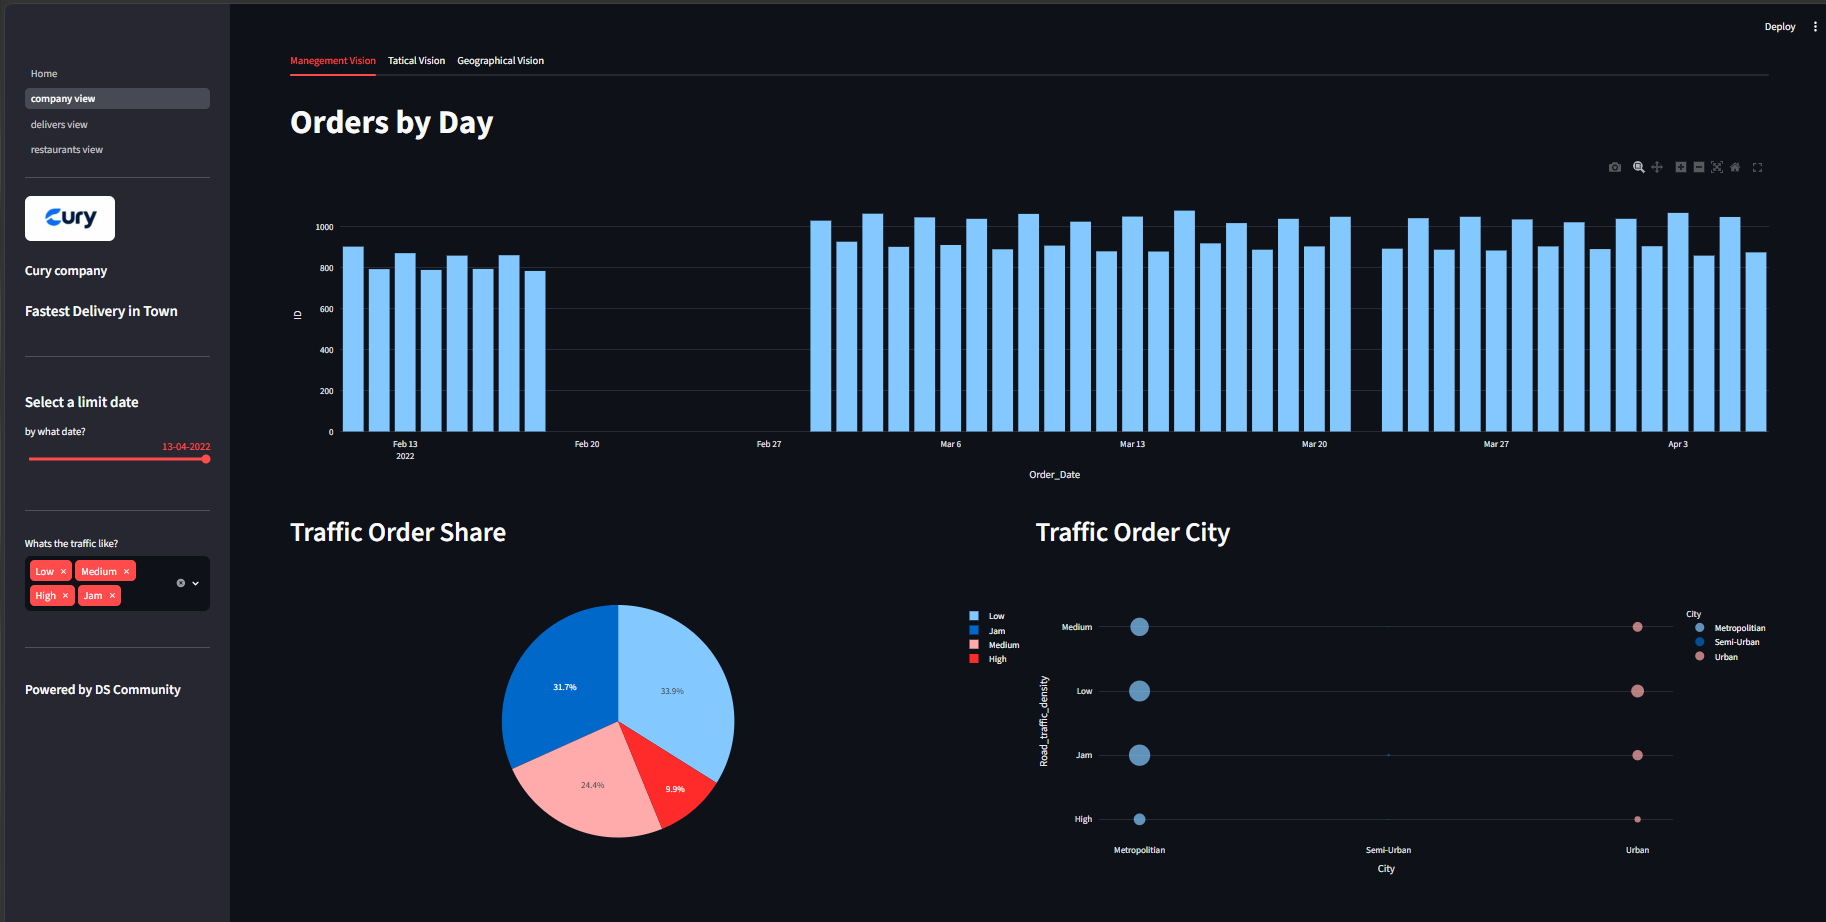
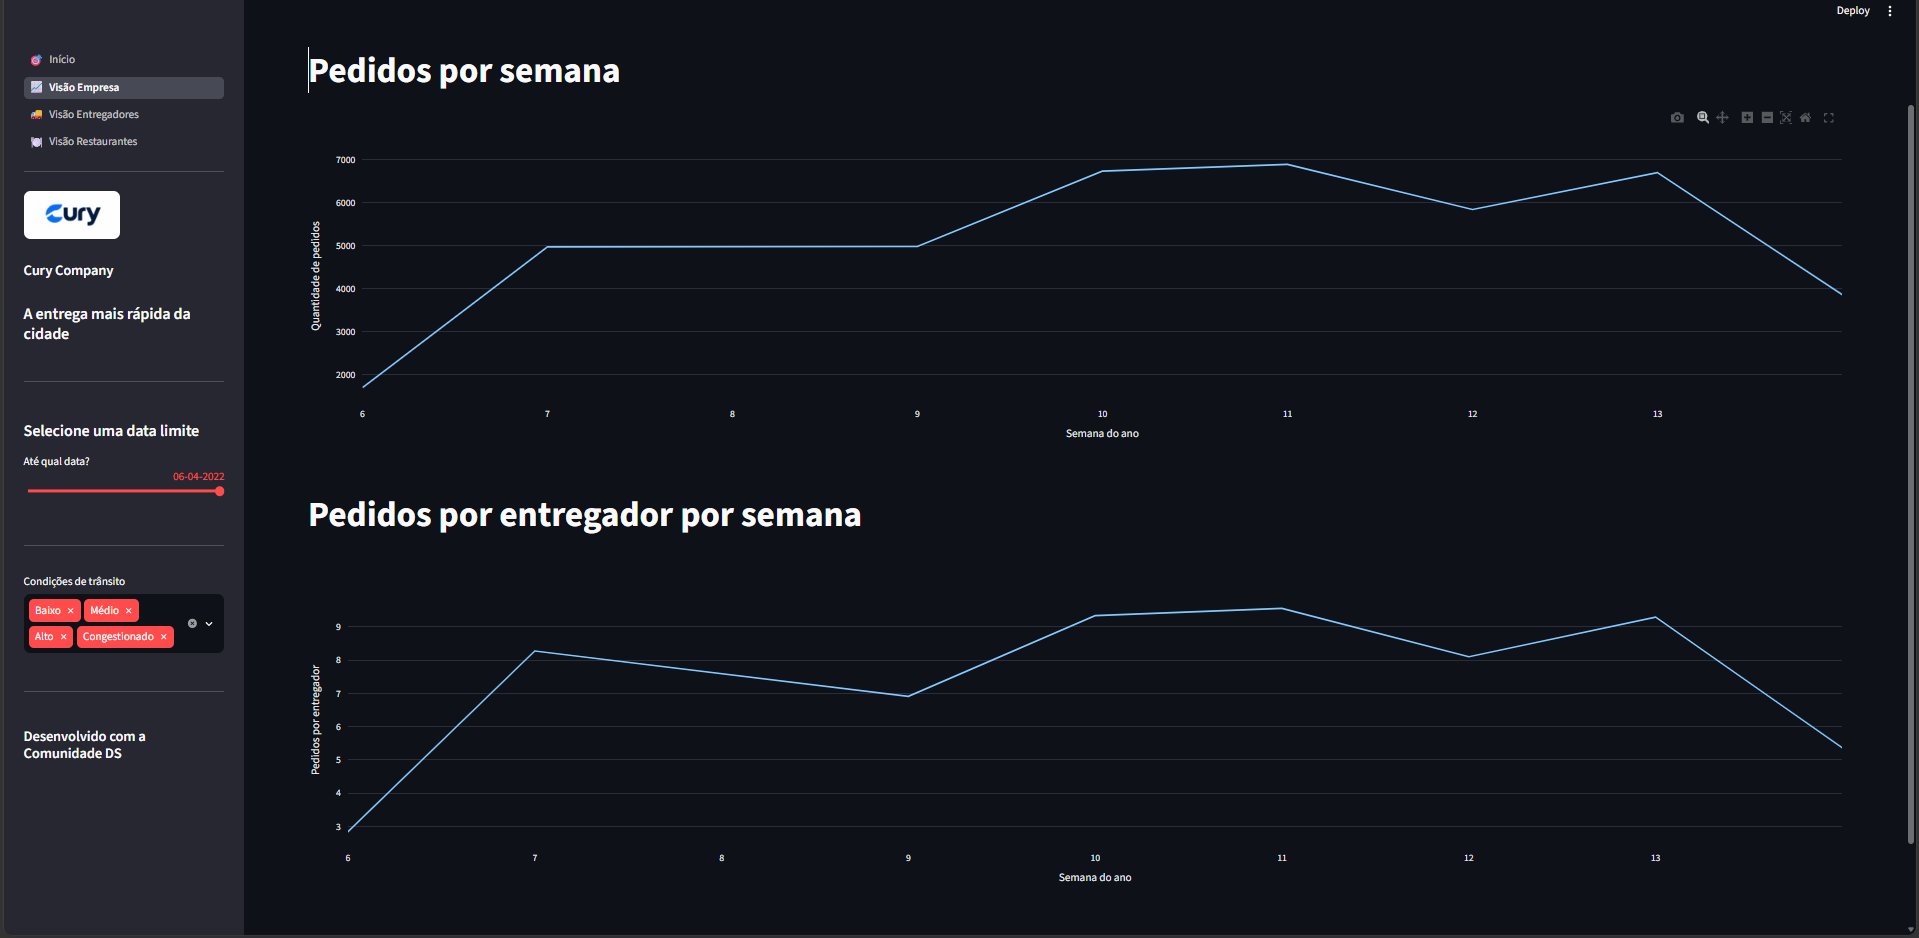
Reescreve README so com informacoes confirmadas e atualiza prints do dashboard em portugues

diff --git a/README.md b/README.md
@@ -1,178 +1,221 @@
-# Delivery Marketplace Growth Dashboard
+# Cury Company — Growth Dashboard
 
-![Cury Logo](images/cury.png)
+<img src="images/cury.png" alt="Logo Cury Company" width="220">
 
-Dashboard de Business Intelligence de ponta a ponta, construído com Python, Streamlit, Plotly, Pandas e Folium para monitorar KPIs estratégicos de um marketplace de delivery de comida.
+Dashboard em **Python + Streamlit** com os principais indicadores de um marketplace de delivery de comida, sob três visões: **empresa, entregadores e restaurantes**.
+
+🔗 **Dashboard online:** https://curycompany1.streamlit.app
+
+**Em 30 segundos:**
+- Dados reais de **45.593 pedidos** de delivery na Índia (Kaggle), de 11/02/2022 a 06/04/2022.
+- Limpeza e agregações com **Pandas**, gráficos com **Plotly**, mapa com **Folium**, app com **Streamlit**.
+- Publicado no **Streamlit Community Cloud**, com atualização automática a cada push.
+
+> Projeto de portfólio desenvolvido no curso da **Comunidade DS**. A "Cury Company" é o caso de estudo proposto no curso.
 
 ---
 
 ## 1. Problema
 
-A Cury Company é uma empresa de tecnologia que desenvolveu uma plataforma conectando restaurantes, entregadores e clientes. Os clientes fazem pedidos em restaurantes cadastrados e recebem a entrega em casa por entregadores cadastrados.
+A Cury Company é uma plataforma que conecta restaurantes, entregadores e clientes. Ela gera muitos dados operacionais (pedidos, trânsito, clima, avaliações), mas o CEO não tem uma visão centralizada dos indicadores do negócio.
 
-A plataforma gera uma grande quantidade de dados operacionais : informações de entrega, tipos de pedido, condições climáticas, avaliações de entregadores, entre outros, mas o CEO não tem uma visão centralizada dos principais indicadores de desempenho (KPIs) da empresa.
+**Objetivo:** reunir os KPIs em um único dashboard interativo, organizado pelas três visões do marketplace:
 
-**Objetivo:** consolidar os KPIs estratégicos da empresa em um único dashboard interativo, permitindo que o CEO monitore a performance do negócio e apoie decisões orientadas a dados, sob três perspectivas de stakeholders:
-
-| Visão | Responde |
+| Visão | Perguntas que responde |
 |---|---|
-| **Empresa** | Pedidos por dia/semana, distribuição de tráfego, pedidos por cidade, concentração geográfica dos pedidos |
-| **Entregador** | Entregador mais novo/mais velho, condição do veículo, avaliações por trânsito/clima, entregadores mais rápidos/lentos por cidade |
-| **Restaurante** | Entregadores únicos, distância/tempo médio de entrega por cidade, tipo de pedido e trânsito, tempo de entrega durante festivais |
+| **Empresa** | Quantos pedidos por dia e por semana? Como os pedidos se dividem por tipo de trânsito e de cidade? Onde ficam as entregas no mapa? |
+| **Entregadores** | Qual a faixa de idade e a condição dos veículos? Como variam as avaliações por trânsito e clima? Quem são os entregadores mais rápidos e mais lentos por cidade? |
+| **Restaurantes** | Quantos entregadores únicos? Qual a distância média das entregas? Quanto tempo leva uma entrega com e sem festival, por cidade e por trânsito? |
 
 ---
 
 ## 2. Arquitetura
 
 ```mermaid
-flowchart LR
-    subgraph Fonte["📦 Fonte de Dados"]
-        A["Dataset do Kaggle<br/>Operações de delivery<br/>11/fev – 06/abr de 2022"]
+flowchart TB
+    subgraph Fonte["📦 Fonte dos dados"]
+        A["Kaggle — Food Delivery Dataset<br/>autor: Gaurav Malik<br/>train.csv · 45.593 pedidos"]
     end
 
-    subgraph ETL["🔄 Limpeza de Dados — Pandas"]
-        B["Conversão de tipos,<br/>tratamento de NaN"]
-        C["Engenharia de atributos<br/>(distância, semana, etc.)"]
+    subgraph Repo["🗂 Repositório no GitHub"]
+        B["dataset/train.csv"]
+        C["Home.py<br/>menu com st.navigation"]
     end
 
-    subgraph Core["🐍 codes_v1 — lógica reutilizável"]
-        D["visao_empresa.py"]
-        E["visao_entregadores.py"]
-        F["visao_restaurantes.py"]
+    subgraph Paginas["📄 Páginas — pasta views/"]
+        P0["inicio.py<br/>apresentação e contato"]
+        P1["1_company_view.py<br/>Visão Empresa"]
+        P2["2_delivers_view.py<br/>Visão Entregadores"]
+        P3["3_restaurants_view.py<br/>Visão Restaurantes"]
     end
 
-    subgraph App["📊 App Multipage — Streamlit"]
-        G["Home.py"]
-        H["1_company_view.py"]
-        I["2_delivers_view.py"]
-        J["3_restaurants_view.py"]
+    subgraph Processo["⚙ O que cada visão executa"]
+        D["1. Leitura do CSV<br/>pd.read_csv"]
+        E["2. Limpeza — clean_code<br/>remove 'NaN', converte tipos,<br/>limpa espaços e o tempo de entrega"]
+        F["3. Tradução dos valores<br/>cidade, trânsito e clima"]
+        G["4. Filtros da barra lateral<br/>data limite e trânsito"]
+        H["5. Agregações com Pandas<br/>contagens, médias e desvios"]
     end
 
-    subgraph Viz["📈 Visualização"]
-        K["Gráficos<br/>Plotly"]
-        L["Mapas<br/>Folium"]
+    subgraph Saida["📊 Visualização"]
+        I["Gráficos — Plotly"]
+        J["Mapa — Folium + st_folium"]
+        K["Cards e tabelas — Streamlit"]
     end
 
     subgraph Deploy["☁ Deploy"]
-        M["Streamlit<br/>Community Cloud"]
+        L["Streamlit Community Cloud<br/>atualiza a cada push na main"]
     end
 
-    A --> B --> C --> D & E & F
-    D --> H
-    E --> I
-    F --> J
-    G --> H & I & J
-    H & I & J --> K & L
-    H & I & J --> M
+    A -->|"arquivo baixado do Kaggle"| B
+    C --> P0
+    C --> P1 & P2 & P3
+    P1 & P2 & P3 --> D
+    B --> D
+    D --> E --> F --> G --> H
+    H --> I & J & K
+    Repo -->|"git push"| L
 ```
 
-**Premissas:**
-- Dados coletados entre **11 de fevereiro de 2022** e **6 de abril de 2022**.
-- Modelo de negócio assumido: **Marketplace**.
-- A análise cobre três perspectivas de negócio: Empresa, Restaurantes, Entregadores.
+**Como ler o diagrama:** o `Home.py` só monta o menu. Cada uma das três visões lê o `train.csv`, limpa os dados, traduz os valores para português, aplica os filtros escolhidos na barra lateral e gera seus próprios gráficos. A página Início é só texto. O mapa é usado apenas na Visão Empresa.
+
+**Decisão de projeto (e limitação conhecida):** cada visão repete a leitura e a limpeza dos dados. Isso deixa cada página independente, mas duplica código. Centralizar essa etapa está nos próximos passos.
 
 ---
 
 ## 3. Stack
 
-| Camada | Ferramenta |
-|---|---|
-| Linguagem | Python |
-| Manipulação de dados | Pandas |
-| Gráficos | Plotly |
-| Mapas | Folium |
-| App / Interface | Streamlit (multipage) |
-| Versionamento | Git, GitHub |
-| Deploy | Streamlit Community Cloud |
+| Camada | Ferramenta | Para que foi usada |
+|---|---|---|
+| Linguagem | Python 3.12 | Todo o projeto |
+| Dados | Pandas, NumPy | Limpeza, filtros, agregações |
+| Distância | Haversine | Distância em linha reta (km) entre restaurante e local de entrega |
+| Gráficos | Plotly | Barras, linhas, pizza e sunburst |
+| Mapa | Folium + streamlit-folium | Mapa interativo da Visão Empresa |
+| App | Streamlit | Interface, filtros e menu (`st.navigation`) |
+| Deploy | Streamlit Community Cloud | Dashboard online |
+| Versionamento | Git e GitHub | Histórico do código |
 
-**Skills demonstradas:** Análise Exploratória de Dados (EDA), Limpeza de Dados, Visualização de Dados, Design de KPIs, Business Intelligence, Análise Geoespacial, Desenvolvimento de Dashboard, Relatórios Executivos.
+As versões exatas estão no [`requirements.txt`](requirements.txt).
+
+**Skills demonstradas:** limpeza de dados, visualização de dados, definição de KPIs, análise geoespacial, desenvolvimento de dashboard e deploy de aplicação.
 
 ---
 
 ## 4. Implementação
 
-### Home
+### Início
 
-![Home page](images/home.png)
+![Página inicial do dashboard](images/home.png)
 
-Página inicial com um guia rápido de como navegar pelas três visões principais do dashboard.
+Menu em português e um guia rápido do que cada visão mostra.
 
 ### Visão Empresa
 
-![Orders by Day and Traffic Order Share](images/company_view_2.png)
+![Visão Gerencial](images/company_view_1.png)
 
-Visão Gerencial: volume diário de pedidos ao longo do tempo, distribuição de participação por tráfego e volume de pedidos por cidade e condição de tráfego.
+**Visão Gerencial:** pedidos por dia, participação de cada tipo de trânsito nos pedidos e pedidos por tipo de cidade e trânsito.
 
-![Order by Week and Order Share by Week](images/company_view_3.png)
+![Visão Tática](images/company_view_2.png)
 
-Visão Tática: total de pedidos por semana e média de pedidos por entregador por semana.
+**Visão Tática:** pedidos por semana do ano e pedidos por entregador por semana (total de pedidos da semana dividido pelo número de entregadores únicos na semana).
 
-![Country Maps](images/company_view_4.png)
+![Visão Geográfica](images/company_view_3.png)
 
-Visão Geográfica: centro geográfico de cada cidade, segmentado por condição de tráfego, exibido em um mapa interativo.
+**Visão Geográfica:** cada marcador é a **mediana** da localização das entregas de uma combinação de tipo de cidade e tipo de trânsito.
 
-![Marketplace Client Vision table](images/company_view_1.png)
+### Visão Entregadores
 
-Tabela de dados brutos mostrando registros individuais de entrega, incluindo ID do entregador, idade, avaliação e coordenadas de restaurante/entrega.
+![Métricas gerais e avaliações](images/delivers_view_1.png)
 
-### Visão Entregador
+Idade do entregador mais velho e do mais novo, maior e menor valor de condição do veículo, e avaliação média (com desvio padrão) por entregador, por trânsito e por clima.
 
-![Delivery Person overall metrics and ratings](images/delivers_view_1.png)
+![Velocidade de entrega](images/delivers_view_2.png)
 
-Métricas gerais (entregador mais velho/mais novo, melhor/pior condição de veículo) além da avaliação média por entregador, condição de tráfego e condição climática.
+Os 10 entregadores mais rápidos e os 10 mais lentos de cada tipo de cidade, pelo tempo médio de entrega.
 
-![Delivery speed tables](images/delivers_view_2.png)
+### Visão Restaurantes
 
-Top 10 entregadores mais rápidos e top 10 mais lentos por cidade.
+![Métricas gerais dos restaurantes](images/restaurants_view_1.png)
 
-### Visão Restaurante
+Entregadores únicos, distância média, tempo médio e desvio padrão de entrega com e sem festival, e tempo de entrega por tipo de cidade e trânsito.
 
-![Restaurant overall metrics](images/restaurants_view_1.png)
+![Distância e tempo por cidade](images/restaurants_view_2.png)
 
-Métricas gerais (entregadores únicos, distância média, tempo médio de entrega e desvio padrão com/sem festivais) além do tempo médio de entrega por cidade e condição de tráfego.
+Distância média por tipo de cidade e um gráfico sunburst com o tempo médio (tamanho) e o desvio padrão (cor) por cidade e trânsito.
 
-![Time Distribution charts](images/restaurants_view_2.png)
+### Como rodar localmente
 
-Distribuição do tempo de entrega por tipo de cidade e desvio padrão do tempo de entrega por cidade e condição de tráfego.
+```bash
+git clone https://github.com/iannfava/strategic-dashboard-streamlit.git
+cd strategic-dashboard-streamlit
+pip install -r requirements.txt
+streamlit run Home.py
+```
 
-### Estrutura do Projeto
+### Estrutura do projeto
 
 ```
-PYTHON_PROJECT_DA/
-├── dataset/          # dados brutos e tratados
-├── codes_v1/         # scripts Python auxiliares
-├── dashboards/        # assets e visões do dashboard
-├── images/            # imagens usadas no projeto e no README (inclui cury.png)
-├── pages/              # páginas do app multipage do Streamlit
-├── Home.py             # ponto de entrada principal do Streamlit
+strategic-dashboard-streamlit/
+├── dataset/
+│   └── train.csv              # dados do Kaggle
+├── images/                    # logo e prints usados neste README
+├── views/
+│   ├── inicio.py              # página inicial
+│   ├── 1_company_view.py      # Visão Empresa
+│   ├── 2_delivers_view.py     # Visão Entregadores
+│   └── 3_restaurants_view.py  # Visão Restaurantes
+├── Home.py                    # ponto de entrada: monta o menu com st.navigation
 ├── requirements.txt
+├── .gitignore
 └── README.md
 ```
-
-> Nota: `.ipynb_checkpoints/` é uma pasta de cache local do Jupyter e é excluída do versionamento via `.gitignore`.
-
-### Dashboard ao Vivo
-
-Hospedado na nuvem, acessível de qualquer dispositivo conectado à internet:
-
-🔗 https://curycompany1.streamlit.app/
 
 ---
 
 ## 5. Resultado
 
-### Top 3 Insights de Negócio
+### Principais insights
 
-1. A demanda de pedidos segue uma forte sazonalidade diária, com aproximadamente **10% de variação** entre dias consecutivos.
-2. Cidades Semi-Urban não apresentam condições de **tráfego baixo (Low)**.
-3. A maior variabilidade no tempo de entrega ocorre em condições de clima **ensolarado (Sunny)**.
+1. **A cidade metropolitana concentra a operação.** Depois da limpeza, sobram 41.611 pedidos: 31.967 em cidades metropolitanas (cerca de 77%), 9.492 em urbanas e apenas 152 em semiurbanas.
+2. **Festivais deixam a entrega mais lenta, mas mais previsível.** Com festival, o tempo médio é de 45,52 min (desvio de 4,01 min). Sem festival, é de 26,16 min (desvio de 9,0 min).
+3. **Trânsito leve e congestionado dominam os pedidos.** Trânsito Baixo responde por 33,9% dos pedidos, Congestionado por 31,7%, Médio por 24,4% e Alto por 9,9%.
+4. **As cidades semiurbanas têm as entregas mais demoradas**, com médias entre 47 e 50 min, e não têm nenhum pedido com trânsito Baixo. Mas a amostra é pequena (152 pedidos), então isso é uma observação, não uma conclusão.
+5. **As avaliações são estáveis.** A média fica perto de 4,6 em todos os tipos de trânsito e clima. A maior variação das notas aparece em clima Ensolarado (desvio de 0,40).
 
-### Conclusão
+### Limitações conhecidas
 
-Este projeto consolida com sucesso os KPIs estratégicos da empresa em um único dashboard, oferecendo aos executivos uma visão abrangente da performance do negócio. A partir da Visão Empresa, a análise indica um aumento consistente no volume de pedidos entre a Semana 06 e a Semana 13 de 2022.
+- **Tipos de cidade:** o dataset classifica as entregas como metropolitana, urbana ou semiurbana, mas não documenta o critério. Cada tipo reúne entregas de várias cidades reais, por isso os marcadores do mapa ficam concentrados no centro do país.
+- **Condição do veículo:** vai de 0 a 3 no dataset, sem documentação dizendo se o maior valor é a melhor condição. Por isso o dashboard mostra só o maior e o menor valor, sem interpretar.
+- **Limpeza:** remove cerca de 9% das linhas (de 45.593 para 41.611), principalmente registros com campos vazios.
+- **Distância:** é calculada em linha reta (fórmula de Haversine), não pelo trajeto real.
+- **Período:** não há pedidos em parte do fim de fevereiro, e a primeira e a última semana estão incompletas. Por isso a semana 8 não aparece e as pontas do gráfico semanal caem.
 
-### Próximos Passos
+### Problemas reais resolvidos durante a revisão
 
-- Simplificar o dashboard reduzindo o número de métricas exibidas.
-- Adicionar novas opções de filtro.
-- Expandir o dashboard com perspectivas de negócio adicionais.
+- **Deploy quebrado:** o `requirements.txt` era uma cópia de todo o ambiente do computador e incluía `pywin32`, pacote que só existe para Windows. O servidor Linux não conseguia instalar. Reduzi o arquivo às 8 bibliotecas que o código realmente importa.
+- **Bug silencioso no top 10:** o código procurava a cidade `Metropolitan`, mas o dataset escreve `Metropolitian`. Os entregadores das cidades metropolitanas nunca apareciam nas tabelas, sem nenhuma mensagem de erro.
+- **Cards trocados:** na Visão Restaurantes, os rótulos de tempo médio e desvio padrão estavam invertidos, e um dos desvios repetia o cálculo da média. Corrigi os cálculos, os rótulos e acrescentei as unidades (km e min).
+- **Atualização do deploy:** depois de renomear o repositório, o app parou de atualizar sozinho. Recriar o app apontando para o novo nome resolveu.
+
+### Próximos passos
+
+- Centralizar a leitura e a limpeza dos dados em um único módulo, com cache (`st.cache_data`), para eliminar a duplicação entre as páginas.
+- Extrair a cidade real do código do entregador (os IDs parecem conter o nome da cidade, como `MUMRES` e `BANGRES`) e fazer um mapa por cidade de verdade.
+- Trocar o gráfico de pizza de distância média por um gráfico de barras: médias não são partes de um todo.
+- Investigar os registros removidos na limpeza, como as idades de 15 e 50 anos e a condição de veículo 3, que existem no dataset original mas não aparecem no dashboard.
+- Adicionar novos filtros na barra lateral, como tipo de cidade e clima.
+- Remover imports que não são usados nas páginas.
+
+---
+
+## Dados e créditos
+
+- **Dataset:** [Food Delivery Dataset](https://www.kaggle.com/datasets/gauravmalik26/food-delivery-dataset), de Gaurav Malik, no Kaggle. Usado aqui apenas para fins educacionais. A página do dataset não especifica a licença.
+- **Curso:** projeto desenvolvido no curso da Comunidade DS.
+
+## Contato
+
+- **LinkedIn:** [linkedin.com/in/iannfava](https://linkedin.com/in/iannfava)
+- **GitHub:** [github.com/iannfava](https://github.com/iannfava)
+- **E-mail:** iannfava@gmail.com
